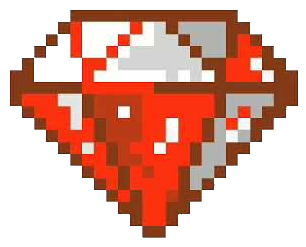
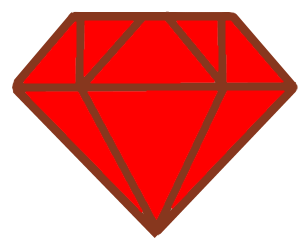
Rubint ikon javítva

diff --git a/RogueliekV2/MainWindow.xaml.cs b/RogueliekV2/MainWindow.xaml.cs
@@ -99,7 +99,7 @@ namespace RoguelikeV2
             {
                 ExitPossible = false; //Nem használok külön változót, mert ugyan az a feltétel
                 this.ClearMap();
-                _ = MessageBox.Show(e ? "Died" : "Rip"); 
+                _ = MessageBox.Show(e ? "Meghaltál" : "Eddig bírtad..."); 
             }
         }
 
